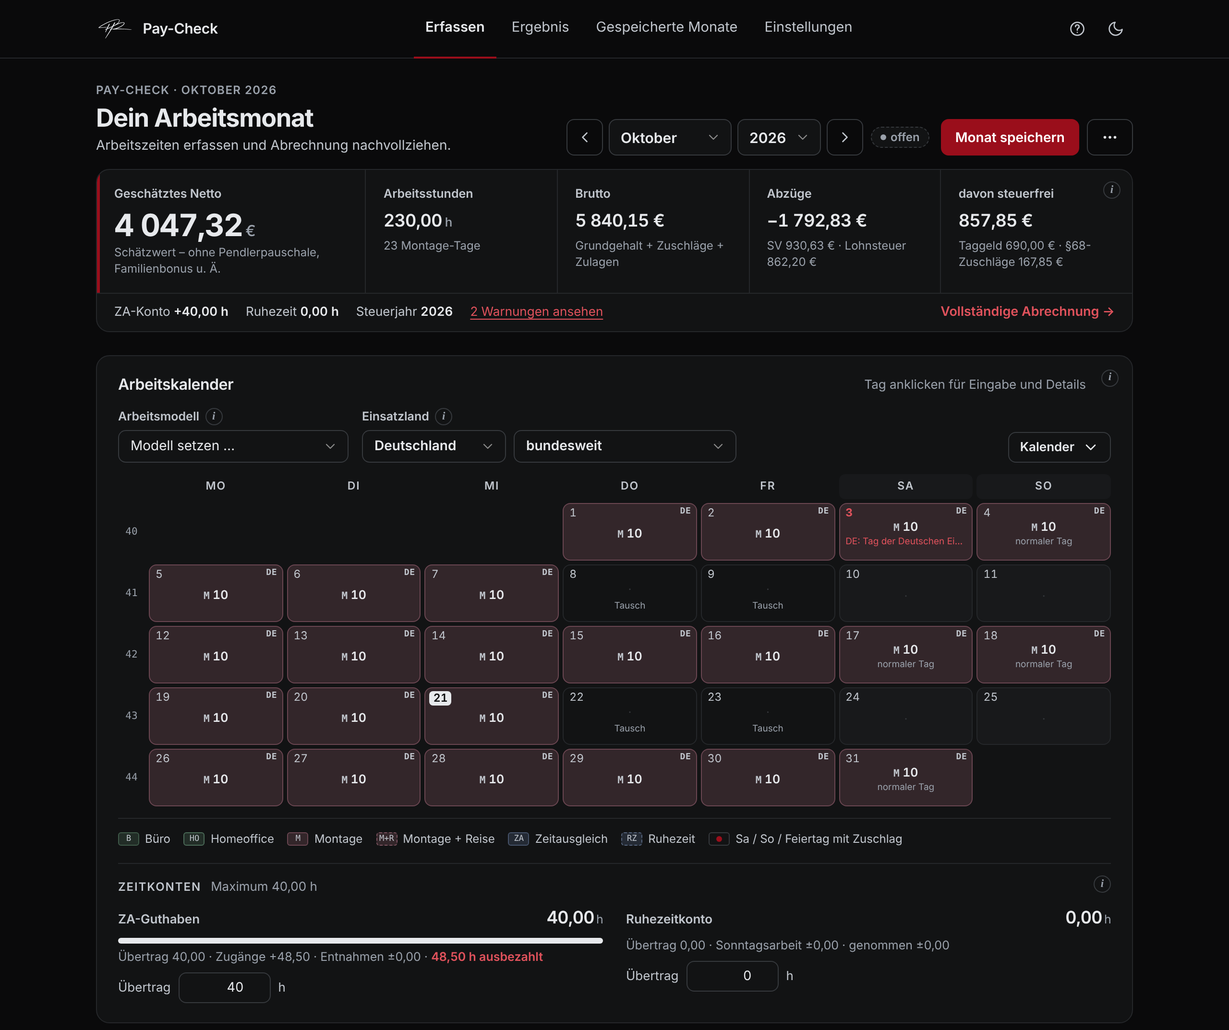
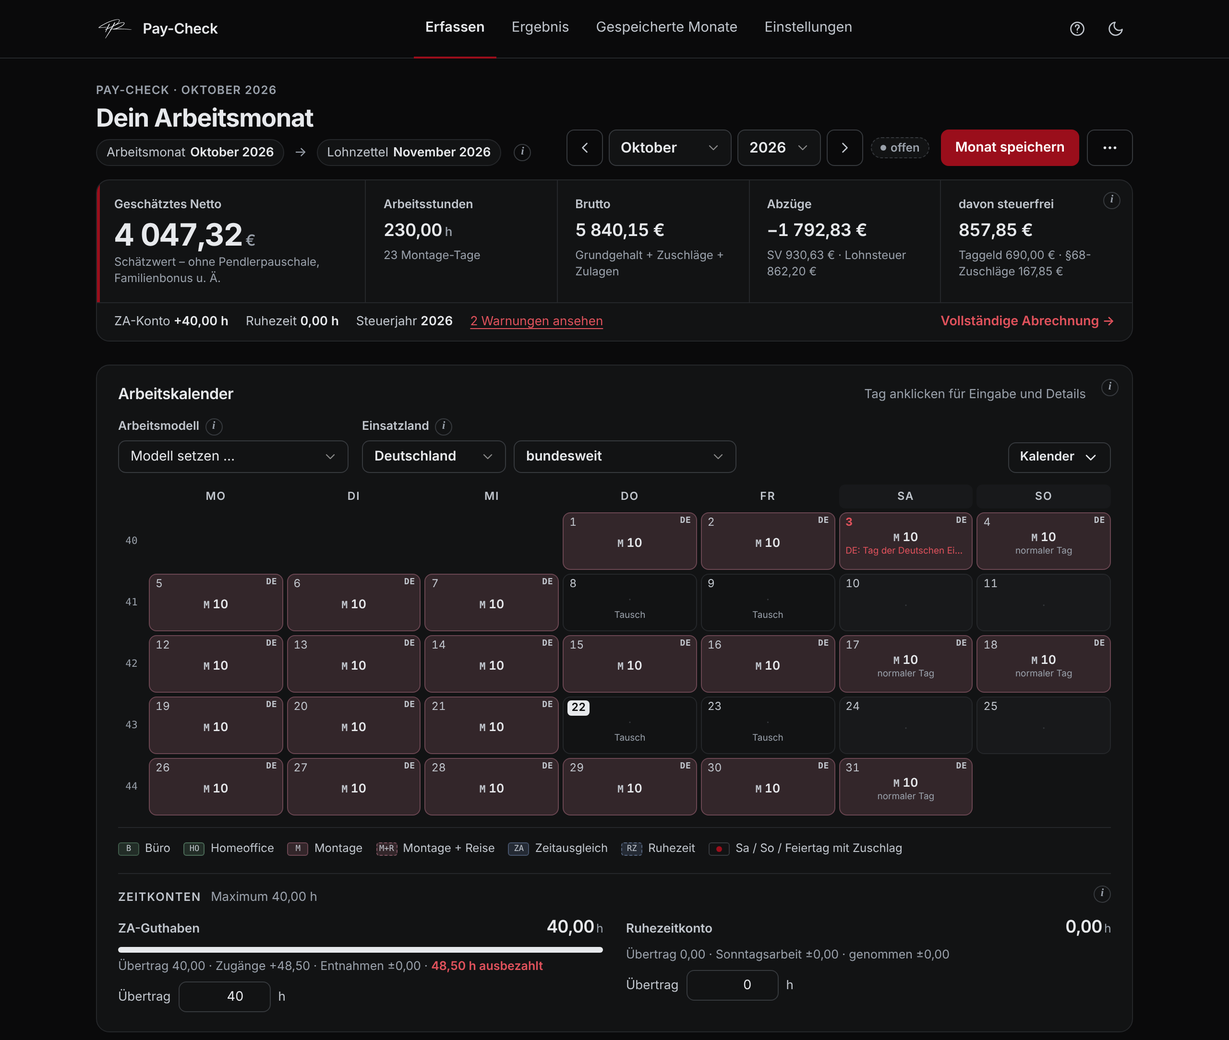
Arbeitsmonat und Lohnzettel klar zuordnen (3.1.0)
- Kopf in Erfassen und Ergebnis: „Arbeitsmonat … → Lohnzettel …“ mit Erklärung,
  Feld „Lohnzettel für“ in der Bezahlung entfällt
- Gespeicherte Monate: Erklärsatz, Diagramm mit Lohnzettel-Monat unter jedem
  Arbeitsmonat, Tabelle und Monatsliste mit „→ Lohnzettel …“
- englische Texte ergänzt, README-Bilder erneuert

Claude-Session: https://claude.ai/code/session_01UZkd5cUydESZtVrkR8d9Zg

diff --git a/index.html b/index.html
@@ -29,6 +29,7 @@
 ": Ergebnis festgehalten; es ändert sich nicht mehr von selbst.": ": Result recorded; it will no longer change on its own.",
 ": Lohnzettel liegt vor und wurde verglichen.": ": Payslip available and compared.",
 ": erfasst und automatisch gesichert, aber noch nicht gespeichert.": ": recorded and automatically backed up, but not saved yet.",
+": {} gearbeitet → Lohnzettel {}.": ": worked in {} → payslip {}.",
 "Abbrechen": "Cancel",
 "Abgerechnet": "Settled",
 "Abgestimmt auf den Abrechnungsbeleg mit den Spalten Lohnart · Einheiten · Satz/BMG · Abzüge · Bezüge. Andere Lohnzettel werden nur allgemein zugeordnet. Bitte jeden erkannten Wert kontrollieren.": "Tailored to the pay statement with the columns wage type · units · rate/BMG · deductions · earnings. Other payslips are only matched in general terms. Please check every recognised value.",
@@ -69,6 +70,8 @@
 "Arbeitsmodell im Monat fortführen": "Continue work pattern in this month",
 "Arbeitsmodell setzen": "Set work pattern",
 "Arbeitsmodell wählen, dann den ersten Arbeitstag im Kalender anklicken": "Choose a work pattern, then click the first working day in the calendar",
+"Arbeitsmonat": "Work month",
+"Arbeitsmonat {} {} → Lohnzettel {} {}": "Work month {} {} → payslip {} {}",
 "Arbeitsstunden": "Working hours",
 "Arbeitstage im Modell": "Working days in pattern",
 "Arbeitszeiten erfassen und Abrechnung nachvollziehen.": "Record your working hours and understand your pay statement.",
@@ -262,6 +265,7 @@
 "Jahresbrutto": "Annual gross",
 "Jahresnetto geschätzt": "Estimated annual net",
 "Jahresübersicht mit Kennzahlen, Diagrammen und allen Monaten. Netto und Brutto summieren nur erfasste Monate; Schätzungen offener Monate sind gekennzeichnet. Export als CSV oder PDF.": "Annual overview with key figures, charts and all months. Net and gross only add up recorded months; estimates for open months are marked. Export as CSV or PDF.",
+"Jede Zeile ist": "Each row is",
 "Jeder erfasste Tag mit Normalarbeitszeit, ZA- und Ruhezeit-Buchung, Zuschlägen und Lenkzeit – gruppiert nach Kalenderwochen mit Wochensummen.": "Every recorded day with normal working hours, ZA and rest time bookings, premiums and driving time – grouped by calendar week with weekly totals.",
 "KV-Erhöhung oder geänderte Einstufung": "KV pay rise or changed grading",
 "KW {}": "CW {}",
@@ -288,15 +292,19 @@
 "Lohnsteuer": "Wage tax",
 "Lohnsteuer (Tarif {})": "Wage tax (tariff {})",
 "Lohnsteuer nach Tarif {} mit Verkehrsabsetzbetrag und Werbungskostenpauschale – ohne Pendlerpauschale, Familienbonus und andere Absetzbeträge.": "Wage tax per the {} tariff with transport tax credit and flat-rate income-related expenses – without commuter allowance, Family Bonus Plus and other tax credits.",
+"Lohnzettel": "Payslip",
 "Lohnzettel (berechnet)": "Payslip (calculated)",
+"Lohnzettel des Folgemonats": "following month's payslip",
 "Lohnzettel einlesen": "Import payslip",
 "Lohnzettel einlesen geht nur online oder über einen lokalen Webserver, nicht in der heruntergeladenen Einzeldatei": "Reading a payslip only works online or via a local web server, not in the downloaded single file",
 "Lohnzettel einlesen konnte nicht geladen werden": "Payslip reading could not be loaded",
 "Lohnzettel für": "Payslip for",
 "Lohnzettel prüfen: Soll-Ist-Vergleich": "Check payslip: expected vs. actual comparison",
 "Lohnzettel wird gelesen": "Reading payslip",
+"Lohnzettel {} {}": "Payslip {} {}",
 "Lohnzettel {} {} erkannt – passt zur Berechnung für {} {}.": "Payslip {} {} detected – matches the calculation for {} {}.",
 "Lohnzettel {} {} nachvollziehen und mit dem echten vergleichen.": "Understand payslip {} {} and compare it with the real one.",
+"Lohnzettel {} {} · Werte {}": "Payslip {} {} · {} values",
 "Lohnzettel-Monat = Folgemonat": "Payslip month = following month",
 "Luxemburg": "Luxembourg",
 "Löschen": "Delete",
@@ -350,6 +358,7 @@
 "Netto / Auszahlung": "Net / payout",
 "Netto berechnet": "Net calculated",
 "Netto geschätzt": "Net estimated",
+"Netto je Arbeitsmonat": "Net per work month",
 "Netto je Monat": "Net per month",
 "Netto jedes Monats im gewählten Jahr. Volle Balken: gespeicherte oder abgerechnete Monate. Schraffiert: offene Monate (Schätzung aus den aktuellen Eingaben). Roter Strich: Netto laut Lohnzettel aus dem Soll-Ist-Vergleich. Nicht erfasste Monate bleiben leer und zählen nicht als {} €.": "Net for each month of the selected year. Solid bars: saved or settled months. Hatched: open months (estimate from the current inputs). Red line: net per payslip from the expected vs. actual comparison. Months not recorded stay empty and don't count as {} €.",
 "Netto laut LZ": "Net per payslip",
@@ -558,6 +567,7 @@
 "Zuschlag ZA-Überlauf (%)": "ZA overflow premium (%)",
 "Zuschläge & Überstunden": "Premiums & overtime",
 "Zuschläge und Taggeld eines Monats werden meist am Lohnzettel des Folgemonats abgerechnet. Vergleiche daher mit diesem Lohnzettel.": "A month's premiums and daily allowance are usually settled on the following month's payslip. So compare with this payslip.",
+"Zuschläge, Überstunden und Taggeld eines Monats werden meist erst am Lohnzettel des Folgemonats abgerechnet. Vergleiche die Berechnung daher mit diesem Lohnzettel.": "Premiums, overtime and daily allowance for a month are usually only paid on the following month's payslip. So compare the calculation with this payslip.",
 "abgerechnet": "settled",
 "alle Tage mit Wochensummen": "all days with weekly totals",
 "als weitere Position: {} €": "as an additional item: {} €",
@@ -566,6 +576,7 @@
 "bundesweit": "nationwide",
 "davon steuerfrei": "of which tax-free",
 "den Monat speichern, mit dem echten Lohnzettel vergleichen und als": "save the month, compare it with your real payslip and mark it as",
+"ein Arbeitsmonat": "a work month",
 "ein PDF (bis {} Seiten) oder bis zu {} Fotos – eines pro Seite · JPG oder PNG · zusammen bis {} MB": "one PDF (up to {} pages) or up to {} photos – one per page · JPG or PNG · up to {} MB in total",
 "eingeschränkt vergleichbar": "partly comparable",
 "einmal Grundgehalt, Taggeld und dein Arbeitsmodell eintragen.": ", enter your base salary, daily allowance and work pattern once.",
@@ -615,6 +626,7 @@
 "steuerpflichtig": "taxable",
 "stimmt": "matches",
 "ungültige Eingabe": "invalid input",
+"unter jedem Monat: Lohnzettel-Monat": "below each month: payslip month",
 "unvollständig": "incomplete",
 "veraltet": "outdated",
 "von dir geändert": "changed by you",
@@ -694,7 +706,10 @@
 "Übertrag": "Carried over",
 "Übertrag {} · Sonntagsarbeit {} · genommen {}": "Carried over {} · Sunday work {} · taken {}",
 "Übertrag {} · Zugänge {} · Entnahmen {}": "Carried over {} · additions {} · withdrawals {}",
-"– auf den ersten Arbeitstag klicken": "– click the first working day"
+"– auf den ersten Arbeitstag klicken": "– click the first working day",
+"– der Monat, in dem du gearbeitet hast. Zuschläge und Taggeld daraus stehen meist am": "– the month in which you worked. Its premiums and daily allowance usually appear on the",
+"→ Lohnzettel": "→ payslip",
+"→ Lohnzettel {} {}": "→ payslip {} {}"
 }</script>
 <script>
 (function(){
@@ -1131,6 +1146,18 @@ tr.clickable:hover td{background:var(--pr-surface-2);}
 .rec-item{display:grid;grid-template-columns:24px minmax(0,1fr) 190px 360px;gap:8px 14px;align-items:center;padding:12px 0;border-bottom:1px solid var(--pr-border);}
 .rec-item:last-child{border-bottom:none;}
 .rec-name{font-weight:600;}
+#jahr-table td.r,.nowrap{white-space:nowrap;}
+#jahr-table th{white-space:normal;vertical-align:bottom;}
+.td-lz{display:block;font-size:12px;color:var(--pr-text-3);white-space:nowrap;}
+.th-sub{display:block;text-transform:none;letter-spacing:0;font-weight:500;color:var(--pr-text-3);}
+.rec-lz{font-weight:400;font-size:13px;color:var(--pr-text-3);margin-left:4px;white-space:nowrap;}
+.monat-paar{display:flex;align-items:center;flex-wrap:wrap;gap:4px 10px;margin-top:6px !important;}
+.mp-teil{display:inline-flex;align-items:baseline;gap:5px;padding:3px 10px;border:1px solid var(--pr-border);border-radius:999px;background:var(--pr-surface);font-size:13px;color:var(--pr-text-2);}
+.mp-teil b{color:var(--pr-text);font-weight:600;}
+.mp-pfeil{color:var(--pr-text-3);}
+.monat-erklaerung{margin:6px 0 0;max-width:820px;}
+.chart text.ax-lz{font-size:9.5px;opacity:.8;}
+.grid4.grid3{grid-template-columns:repeat(3,minmax(0,1fr));}
 .rec-meta{font-size:12.5px;color:var(--pr-text-3);}
 .rec-badges{display:flex;gap:5px;flex-wrap:wrap;margin-top:4px;}
 .rec-vals{font-size:13.5px;color:var(--pr-text-2);font-variant-numeric:tabular-nums;}
@@ -1342,7 +1369,7 @@ details.card.fold>summary>.info-ecke{right:28px;}
 }
 @media (max-width:640px){
   .konten-row{grid-template-columns:1fr;}
-  .grid4{grid-template-columns:repeat(2,minmax(0,1fr));}
+  .grid4,.grid4.grid3{grid-template-columns:repeat(2,minmax(0,1fr));}
   .kopf h1{font-size:22px;}
   .cal-tool{flex:1 1 100%;}
   .cal-tools .menu{margin-left:auto;}
@@ -1416,7 +1443,7 @@ details.card.fold>summary>.info-ecke{right:28px;}
     <div class="kopf-text">
       <span class="kopf-eyebrow" id="kopf-eyebrow">Pay-Check</span>
       <h1 id="kopf-titel">Dein Arbeitsmonat</h1>
-      <p id="kopf-sub">Arbeitszeiten erfassen und Abrechnung nachvollziehen.</p>
+      <p id="kopf-sub" class="monat-paar"></p>
     </div>
     <div class="kopf-aktionen">
       <div class="row">
@@ -1528,11 +1555,11 @@ details.card.fold>summary>.info-ecke{right:28px;}
         <h2 class="panel-title">Bezahlung</h2>
         <button class="toggle" id="lehrling-btn" onclick="toggleLehrling()" title="Lehrling: reduzierter SV-Satz">Lehrling</button>
       </div>
-      <div class="grid4">
+      <div class="grid4 grid3">
         <label class="field"><span id="grundgehalt-label">Grundgehalt (€/Monat)</span><input type="number" id="grundgehalt" value="0" step="10" min="0"></label>
         <label class="field"><span><span id="stundensatz-label">Stundensatz (€/h)</span> <button type="button" class="help" data-help="Grundgehalt geteilt durch den Stundenteiler aus den Einstellungen (üblich: 143). Basis für Überstunden, Zuschläge und Lenkzeit." aria-label="Info">i</button></span><input type="number" id="stundensatz" value="0" step="0.01" readonly tabindex="-1"></label>
         <label class="field"><span>Taggeld (€/Tag) <button type="button" class="help" data-help="Satz laut Kollektivvertrag pro Montage-Tag. Steuerfrei bis 30 € im Inland bzw. bis zum Auslandssatz des Einsatzlandes, der Rest ist steuerpflichtig." aria-label="Info">i</button></span><input type="number" id="taggeld" value="0" step="1" min="0"></label>
-        <label class="field"><span>Lohnzettel für <button type="button" class="help" data-help="Zuschläge und Taggeld eines Monats werden meist am Lohnzettel des Folgemonats abgerechnet. Vergleiche daher mit diesem Lohnzettel." aria-label="Info">i</button></span><input type="text" id="lz-monat" readonly tabindex="-1"></label>
+        
       </div>
       <p class="hint" id="lehrling-hint" hidden></p>
           <details class="fold subsec" id="sz-fold" style="margin-top:14px;padding-top:0;" data-info="Urlaubsgeld wird nach §67 EStG begünstigt besteuert (6 % bis zum Jahressechstel). Prämien und Zulagen trägst du mit ihrer steuerlichen Behandlung ein: steuerpflichtig (laufender Bezug), steuerfrei oder §67 begünstigt.">
@@ -1602,6 +1629,7 @@ details.card.fold>summary>.info-ecke{right:28px;}
     <div>
       <h1>Gespeicherte Monate <button type="button" class="help" data-help="Jahresübersicht mit Kennzahlen, Diagrammen und allen Monaten. Netto und Brutto summieren nur erfasste Monate; Schätzungen offener Monate sind gekennzeichnet. Export als CSV oder PDF." aria-label="Info">i</button></h1>
       <p id="jahr-coverage"></p>
+      <p class="hint monat-erklaerung">Jede Zeile ist <b>ein Arbeitsmonat</b> – der Monat, in dem du gearbeitet hast. Zuschläge und Taggeld daraus stehen meist am <b>Lohnzettel des Folgemonats</b>: Oktober gearbeitet → Lohnzettel November.</p>
     </div>
     <div class="row no-print">
       <select id="jahr-sel" aria-label="Jahr" style="width:auto;"></select>
@@ -1613,7 +1641,7 @@ details.card.fold>summary>.info-ecke{right:28px;}
     <div class="kpis" id="jahr-kpis"></div>
     <div class="kpis compact" id="jahr-kpis2"></div>
     <div class="card" data-info="Netto jedes Monats im gewählten Jahr. Volle Balken: gespeicherte oder abgerechnete Monate. Schraffiert: offene Monate (Schätzung aus den aktuellen Eingaben). Roter Strich: Netto laut Lohnzettel aus dem Soll-Ist-Vergleich. Nicht erfasste Monate bleiben leer und zählen nicht als 0 €.">
-      <div class="card-head"><h2 class="panel-title">Netto je Monat</h2><span class="small muted">Lohnzettel-Monat = Folgemonat</span></div>
+      <div class="card-head"><h2 class="panel-title">Netto je Arbeitsmonat</h2><span class="small muted">unter jedem Monat: Lohnzettel-Monat</span></div>
       <div class="chart-legend" id="netto-legend"></div>
       <div class="chart" id="netto-chart"></div>
     </div>
@@ -2418,7 +2446,7 @@ function rhythmusMonat(modell,start,monat,jahr,t,land,region){
 // ═══════════════════════════════════════════════════════════════════════════
 // App – Oberfläche, Speicherung, Navigation
 // ═══════════════════════════════════════════════════════════════════════════
-const APP_VERSION='3.0.0'
+const APP_VERSION='3.1.0'
 
 // Quelltext der Seite im Originalzustand (vor jeder JS-Änderung) — Basis zum Zurückschreiben der Einstellungen
 const SOURCE_HTML=(()=>{const c=window.pcQuelle?window.pcQuelle():document.documentElement.cloneNode(true);c.removeAttribute('data-theme');return'<!DOCTYPE html>\n'+c.outerHTML})()
@@ -2756,19 +2784,22 @@ function render(){
   if(!MONATS_VIEWS.includes(aktiveView()))return
   renderRechner()
 }
+// Arbeitsmonat und zugehöriger Lohnzettel (meist der Folgemonat)
+function lzVon(monat,jahr){return monat===12?{m:1,j:jahr+1}:{m:monat+1,j:jahr}}
+function monatsPaar(monat,jahr){const l=lzVon(monat,jahr)
+  return`<span class="mp-teil"><span>Arbeitsmonat</span> <b>${MONATE[monat-1]} ${jahr}</b></span><span class="mp-pfeil" aria-hidden="true">→</span><span class="mp-teil"><span>Lohnzettel</span> <b>${MONATE[l.m-1]} ${l.j}</b></span><button type="button" class="help" data-help="Zuschläge, Überstunden und Taggeld eines Monats werden meist erst am Lohnzettel des Folgemonats abgerechnet. Vergleiche die Berechnung daher mit diesem Lohnzettel." aria-label="Info">i</button>`}
 function renderRechner(){
   const res=state._res;if(!res)return
   const {lz,ruhe,werte}=res,{monat,jahr}=state
   const lzM=monat===12?1:monat+1,lzJ=monat===12?jahr+1:jahr
   $('stundensatz').value=state.stundensatz.toFixed(2)
   $('stundensatz-label').textContent='Stundensatz (÷ '+cfg().teiler+')'
-  $('lz-monat').value=pcT(MONATE[lzM-1]+' '+lzJ)
-  $('lz-label').textContent='für '+MONATE[lzM-1]+' '+lzJ+' · Werte '+werte.jahr
+  $('lz-label').textContent='Lohnzettel '+MONATE[lzM-1]+' '+lzJ+' · Werte '+werte.jahr
   $('cal-title').textContent='Arbeitskalender'
   const erg=aktiveView()==='ergebnis'
   $('kopf-eyebrow').textContent='Pay-Check · '+MONATE[monat-1]+' '+jahr
   $('kopf-titel').textContent=erg?'Deine Abrechnung':'Dein Arbeitsmonat'
-  $('kopf-sub').textContent=erg?'Lohnzettel '+MONATE[lzM-1]+' '+lzJ+' nachvollziehen und mit dem echten vergleichen.':'Arbeitszeiten erfassen und Abrechnung nachvollziehen.'
+  $('kopf-sub').innerHTML=monatsPaar(monat,jahr)
   $('print-title-rechner').textContent='Pay-Check – Monatsabrechnung '+MONATE[monat-1]+' '+jahr+' – Lohnzettel '+MONATE[lzM-1]+' '+lzJ
   renderMonatStatus()
   renderKpis()
@@ -3242,6 +3273,8 @@ function jahresDaten(jahr){
     return{key,name,m:i+1,rec,erg,status:rec.status,geschaetzt:!rec.saved,istNetto:istN==null||istN===''?null:+istN}
   })
 }
+function lzKurz(key){const l=lzVon(+key.slice(5,7),+key.slice(0,4));return MONATE[l.m-1]+(l.j!==+key.slice(0,4)?' '+l.j:'')}
+function lzName(key){const l=lzVon(+key.slice(5,7),+key.slice(0,4));return MONATE[l.m-1]+' '+l.j}
 function renderJahr(){
   const sel=$('jahr-sel'),recs=readMonate()
   const jahre=new Set([state.jahr,new Date().getFullYear(),...Object.keys(recs).map(k=>+k.slice(0,4))])
@@ -3264,10 +3297,10 @@ function renderJahr(){
     kpiHtml('Prämien & Sonderzahlungen',euro(r(sum('praemien')+sum('sonderzahlungen'))),'Prämien, Urlaubsgeld')+kpiHtml('Stunden',fmtH(sum('stunden'))+'<small>h</small>','gearbeitet inkl. Reise')
   renderNettoChart(daten);renderKontoChart(daten)
   const td=v=>`<td class="r">${v}</td>`
-  $('jahr-table').innerHTML=`<table><thead><tr><th>Monat</th><th>Status</th><th class="r">Brutto</th><th class="r">Netto geschätzt</th><th class="r">Netto laut LZ</th><th class="r">Taggeld</th><th class="r">Stunden</th><th class="r">ZA Ende</th><th class="r">Ruhezeit Ende</th></tr></thead><tbody>${
+  $('jahr-table').innerHTML=`<table><thead><tr><th>Arbeitsmonat <span class="th-sub">→ Lohnzettel</span></th><th>Status</th><th class="r">Brutto</th><th class="r">Netto geschätzt</th><th class="r">Netto laut Lohnzettel</th><th class="r">Taggeld</th><th class="r">Stunden</th><th class="r">ZA Ende</th><th class="r">Ruhezeit Ende</th></tr></thead><tbody>${
     daten.map(d=>d.fehlt
-      ?`<tr class="missing"><td>${d.name}</td><td><span class="badge b-fehlt">nicht erfasst</span></td><td class="r" colspan="7"><button class="link-btn no-print" onclick="oeffneMonat('${d.key}')">erfassen</button></td></tr>`
-      :`<tr class="clickable" onclick="oeffneMonat('${d.key}')" title="${d.name} ${jahr} öffnen"><td class="strong">${d.name}</td><td><span class="row" style="gap:4px;">${recBadges(d.rec)}</span></td>${td(fmtE(d.erg.brutto))}${td((d.geschaetzt?'~ ':'')+fmtE(d.erg.netto))}${td(d.istNetto!=null?fmtE(d.istNetto):'—')}${td(fmtE(d.erg.taggeld))}${td(fmtH(d.erg.stunden))}${td(fmtH(d.erg.zaEnde))}${td(fmtH(d.erg.ruheEnde))}</tr>`).join('')
+      ?`<tr class="missing"><td>${d.name}<span class="td-lz">→ ${lzKurz(d.key)}</span></td><td><span class="badge b-fehlt">nicht erfasst</span></td><td class="r" colspan="7"><button class="link-btn no-print" onclick="oeffneMonat('${d.key}')">erfassen</button></td></tr>`
+      :`<tr class="clickable" onclick="oeffneMonat('${d.key}')" title="${d.name} ${jahr} öffnen"><td><b>${d.name}</b><span class="td-lz">→ ${lzKurz(d.key)}</span></td><td><span class="row" style="gap:4px;">${recBadges(d.rec)}</span></td>${td(fmtE(d.erg.brutto))}${td((d.geschaetzt?'~ ':'')+fmtE(d.erg.netto))}${td(d.istNetto!=null?fmtE(d.istNetto):'—')}${td(fmtE(d.erg.taggeld))}${td(fmtH(d.erg.stunden))}${td(fmtH(d.erg.zaEnde))}${td(fmtH(d.erg.ruheEnde))}</tr>`).join('')
   }</tbody>${da.length?`<tfoot><tr class="sum"><td colspan="2">Summe (${da.length} ${da.length===1?'Monat':'Monate'})</td>${td(fmtE(sum('brutto')))}${td(fmtE(sum('netto')))}${td(mitIst.length?fmtE(r(mitIst.reduce((s,d)=>s+d.istNetto,0))):'—')}${td(fmtE(sum('taggeld')))}${td(fmtH(sum('stunden')))}<td></td><td></td></tr></tfoot>`:''}</table>`
 }
 function niceMax(v){if(v<=0)return 1;const p=Math.pow(10,Math.floor(Math.log10(v))),f=v/p;return(f<=1?1:f<=2?2:f<=2.5?2.5:f<=5?5:10)*p}
@@ -3287,14 +3320,14 @@ function bindChartTips(wrap,tipFor){
   })
 }
 function renderNettoChart(daten){
-  const W=760,H=240,ml=52,mr=8,mt=12,mb=26,pw=W-ml-mr,ph=H-mt-mb,slot=pw/12,bw=Math.min(34,slot*0.56)
+  const W=760,H=252,ml=52,mr=8,mt=12,mb=38,pw=W-ml-mr,ph=H-mt-mb,slot=pw/12,bw=Math.min(34,slot*0.56)
   const max=niceMax(Math.max(0,...daten.filter(d=>!d.fehlt).map(d=>Math.max(d.erg.netto,d.istNetto||0))))
   const y=v=>mt+ph-(v/max)*ph
   let g='<defs><pattern id="hatch-o" width="6" height="6" patternUnits="userSpaceOnUse" patternTransform="rotate(45)"><rect width="6" height="6" fill="var(--pr-surface)"/><line x1="0" y1="0" x2="0" y2="6" stroke="var(--pr-text-2)" stroke-width="2"/></pattern></defs>'
   for(let i=0;i<=4;i++){const v=max*i/4;g+=`<line class="${i?'grid':'base'}" x1="${ml}" x2="${W-mr}" y1="${y(v)}" y2="${y(v)}"/><text x="${ml-8}" y="${y(v)+4}" text-anchor="end">${Math.round(v).toLocaleString(window.PC_LOCALE||'de-AT')}</text>`}
   daten.forEach((d,i)=>{
     const cx=ml+slot*i+slot/2,x=cx-bw/2
-    g+=`<text x="${cx}" y="${H-8}" text-anchor="middle">${d.name.slice(0,3)}</text>`
+    g+=`<text x="${cx}" y="${H-20}" text-anchor="middle" class="ax-monat">${d.name.slice(0,3)}</text><text x="${cx}" y="${H-5}" text-anchor="middle" class="ax-lz">→ ${MONATE[(i+1)%12].slice(0,3)}</text>`
     if(d.fehlt){g+=`<rect x="${x}" y="${y(0)-3}" width="${bw}" height="3" rx="1.5" fill="none" stroke="var(--pr-border-strong)" stroke-dasharray="3 2"/>`}
     else{
       const top=y(Math.max(0,d.erg.netto)),h=Math.max(0,y(0)-top),rr=Math.min(4,h)
@@ -3307,7 +3340,7 @@ function renderNettoChart(daten){
   const wrap=$('netto-chart');wrap.innerHTML=`<svg viewBox="0 0 ${W} ${H}" role="img" aria-label="Netto je Monat">${g}</svg>`
   $('netto-legend').innerHTML='<span><i style="background:var(--pr-ink)"></i>gespeichert / abgerechnet</span><span><i style="background:repeating-linear-gradient(135deg,var(--pr-text-2) 0 2px,var(--pr-surface) 2px 5px);border:1px solid var(--pr-text-2)"></i>offen (Schätzung)</span><span><i style="background:var(--pr-red);height:3px;vertical-align:3px"></i>Netto laut Lohnzettel</span><span><i style="border:1px dashed var(--pr-border-strong)"></i>nicht erfasst</span>'
   bindChartTips(wrap,i=>{const d=daten[i];if(d.fehlt)return`<b>${d.name}</b>nicht erfasst`
-    return`<b>${d.name}</b>Netto ${d.geschaetzt?'(Schätzung) ':''}${fmtE(d.erg.netto)}<br>Brutto ${fmtE(d.erg.brutto)}`+(d.istNetto!=null?`<br>laut Lohnzettel ${fmtE(d.istNetto)}`:'')})
+    return`<b>${d.name}</b><span class="muted">Lohnzettel ${lzName(d.key)}</span><br>Netto ${d.geschaetzt?'(Schätzung) ':''}${fmtE(d.erg.netto)}<br>Brutto ${fmtE(d.erg.brutto)}`+(d.istNetto!=null?`<br>laut Lohnzettel ${fmtE(d.istNetto)}`:'')})
 }
 function renderKontoChart(daten){
   const W=760,H=200,ml=52,mr=70,mt=12,mb=26,pw=W-ml-mr,ph=H-mt-mb,slot=pw/12
@@ -3353,7 +3386,7 @@ function renderAbrechnungen(){
     const meta=rec.saved?'gespeichert '+dt(rec.saved.at)+(rec.saved.aktualisiert?' (aktualisiert)':''):'zuletzt bearbeitet '+dt(rec.draft?rec.draft.at:rec.created)
     const hist=(rec.history||[]).length?' · '+rec.history.length+(rec.history.length===1?' frühere Fassung':' frühere Fassungen'):''
     return`<div class="rec-item"><input type="checkbox" aria-label="${monatName(k)} vergleichen" ${state.vergleich.includes(k)?'checked':''} onchange="vergleichToggle('${k}',this.checked)">
-      <div><div class="rec-name">${monatName(k)}</div><div class="rec-meta">${meta}${hist}</div><div class="rec-badges">${recBadges(rec)}</div></div>
+      <div><div class="rec-name">${monatName(k)} <span class="rec-lz">→ Lohnzettel ${lzName(k)}</span></div><div class="rec-meta">${meta}${hist}</div><div class="rec-badges">${recBadges(rec)}</div></div>
       <div class="rec-vals">Brutto ${fmtE(erg.brutto)}<br>Netto ${rec.saved?'':'~ '}${fmtE(erg.netto)}</div>
       <div class="rec-actions">
         <button class="btn small secondary" onclick="oeffneMonat('${k}')">Öffnen</button>

diff --git a/ueberblick.md b/ueberblick.md
@@ -1,6 +1,6 @@
 # Pay-Check – Funktionsüberblick
 
-Stand: Version 3.0.0 · Live: <https://paul-rafael.github.io/pay-check/>
+Stand: Version 3.1.0 · Live: <https://paul-rafael.github.io/pay-check/>
 
 Einsätze erfassen, Lohn nachrechnen, Lohnzettel prüfen – nach österreichischem Recht, vollständig im Browser, ohne Konto und ohne Server.
 
@@ -19,6 +19,10 @@ Einsätze erfassen, Lohn nachrechnen, Lohnzettel prüfen – nach österreichisc
 Jede Funktion hat rechts oben ein kleines **„i“**, das per Klick erklärt, wofür sie da ist; einzelne Felder haben ein eigenes „i“. Am Handy gibt es eine Navigationsleiste unten. Alte Adressen (`#rechner`, `#jahr`, `#abrechnungen`) leiten weiter.
 
 ---
+
+## Arbeitsmonat und Lohnzettel
+
+Alle Monate im Rechner sind **Arbeitsmonate** (wann gearbeitet wurde). Zuschläge, Überstunden und Taggeld daraus stehen meist am **Lohnzettel des Folgemonats**. Deshalb zeigt der Kopf in Erfassen und Ergebnis immer das Paar „Arbeitsmonat Oktober 2026 → Lohnzettel November 2026“, und die Jahresübersicht nennt unter jedem Arbeitsmonat den passenden Lohnzettel-Monat.
 
 ## Ergebnisleiste (Erfassen und Ergebnis)
 

diff --git a/CHANGELOG.md b/CHANGELOG.md
@@ -2,6 +2,13 @@
 
 Alle wichtigen Änderungen an diesem Projekt. Format nach [Keep a Changelog](https://keepachangelog.com/de/1.1.0/), Versionierung nach [Semantic Versioning](https://semver.org/lang/de/).
 
+## [3.1.0] – 2026-10-22
+
+### Geändert
+- Arbeitsmonat und Lohnzettel klar getrennt: Oben in Erfassen und Ergebnis steht jetzt „Arbeitsmonat Oktober 2026 → Lohnzettel November 2026“ (mit Erklärung über das „i“). Das Feld „Lohnzettel für“ in der Bezahlung entfällt.
+- Gespeicherte Monate: kurze Erklärung, dass jede Zeile ein Arbeitsmonat ist und der Lohnzettel meist im Folgemonat kommt. Diagramm „Netto je Arbeitsmonat“ zeigt unter jedem Monat den Lohnzettel-Monat, die Tabelle und die Monatsliste ebenfalls; „Netto laut LZ“ heißt jetzt „Netto laut Lohnzettel“.
+- Ergebnis: Lohnzettel-Karte nennt „Lohnzettel November 2026“ statt „für November 2026“.
+
 ## [3.0.0] – 2026-10-21
 
 ### Geändert
